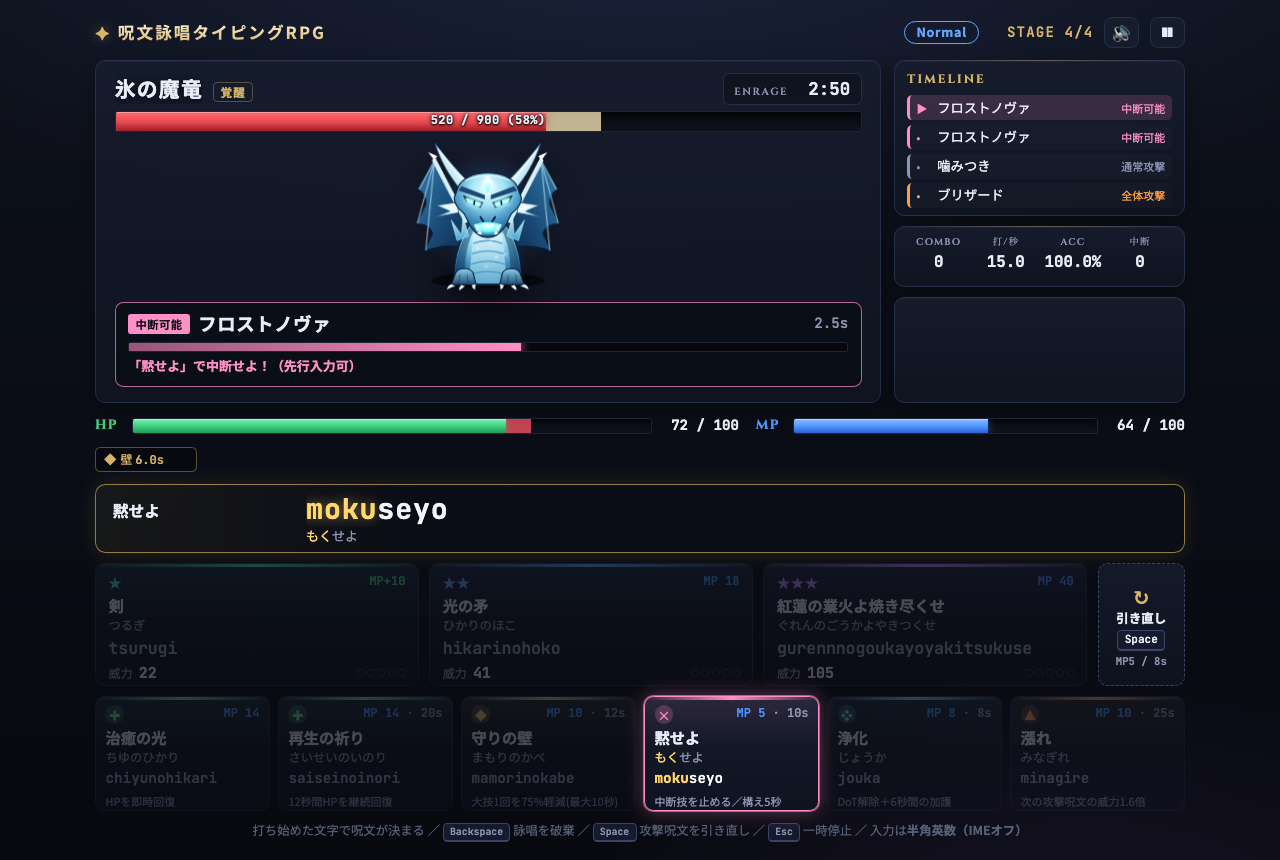
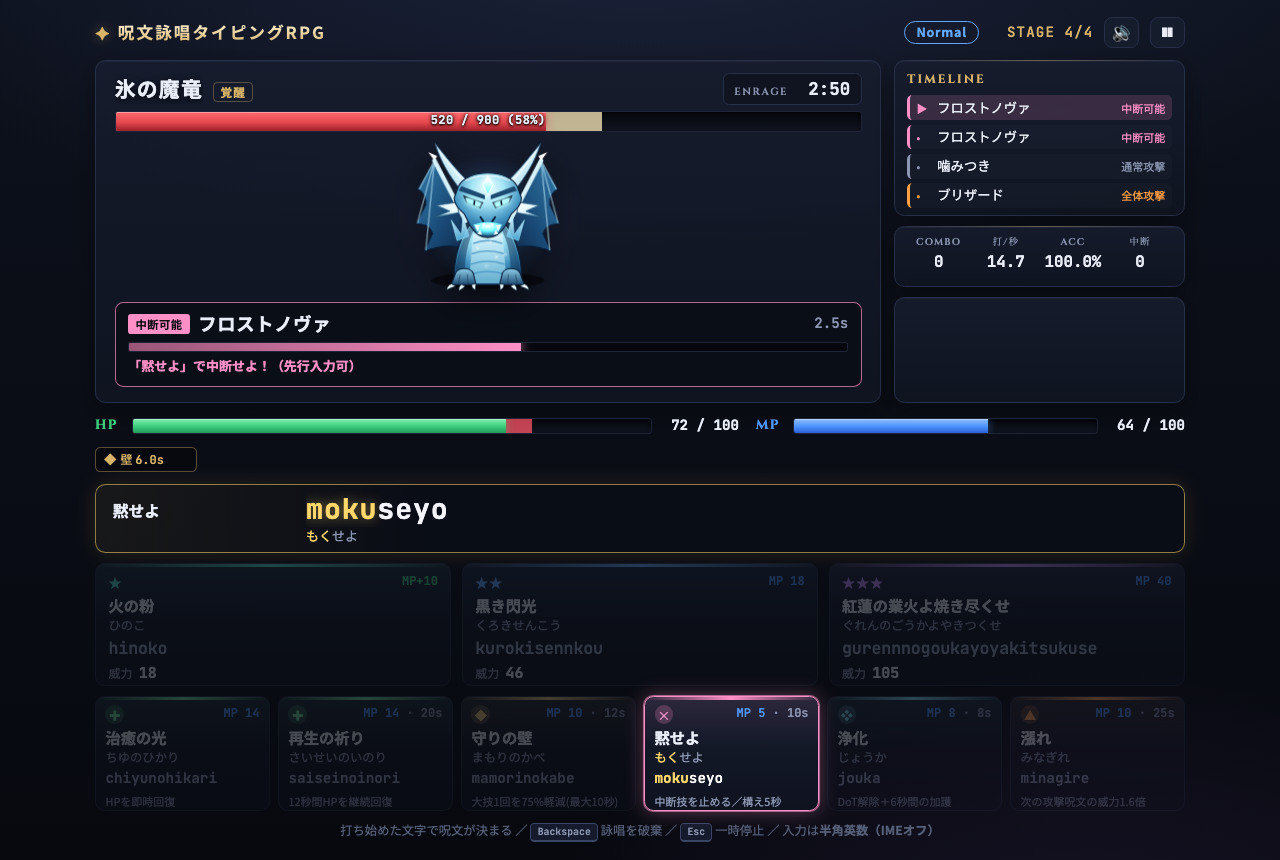
引き直しを削除
属性の廃止で「手札に撃てる/効く呪文がない」状況がなくなり (★枠は MP 0 で撃てる)、
bot も 1 度も使わなくなったため、引き直し (Space / ↻) を削除して攻撃カードを横幅いっぱいに表示する。
未使用になった風化・引き直しの効果音も削除。

diff --git a/js/game.js b/js/game.js
@@ -5,7 +5,7 @@
 (function () {
   'use strict';
 
-  const { ENEMIES, KINDS, DIFFICULTIES, DIFFICULTY_ORDER, ABILITY_TYPES, HAND } = window.GameData;
+  const { ENEMIES, KINDS, DIFFICULTIES, DIFFICULTY_ORDER, ABILITY_TYPES } = window.GameData;
   const { Battle, Sfx } = window;
   const Sprites = window.Sprites || { svg: () => '' };
 
@@ -71,7 +71,6 @@
     combo: $('stat-combo'), speed: $('stat-speed'), acc: $('stat-acc'), int: $('stat-int'),
     log: $('log'), hand: $('hand'), attackRow: $('attack-row'), skillRow: $('skill-row'),
     overlay: $('overlay'), overlayContent: $('overlay-content'), imeWarning: $('ime-warning'),
-    redrawTile: $('redraw-tile'), redrawCost: $('redraw-cost'), redrawCd: $('redraw-cd'),
     chant: $('chant'), chantName: $('chant-name'), chantCandidates: $('chant-candidates'),
     chantTyped: $('chant-typed'), chantRest: $('chant-rest'), chantKana: $('chant-kana'),
     banner: $('banner'), bannerStage: $('banner-stage'), bannerName: $('banner-name'), bannerCall: $('banner-call'),
@@ -252,25 +251,6 @@
     dom.chantKana.innerHTML = `<span class="done">${escapeHtml(m.text.slice(0, m.pos))}</span>${escapeHtml(m.text.slice(m.pos))}`;
   }
 
-  function renderRedraw() {
-    const cd = state.cooldowns.redraw || 0;
-    const ready = engine.canRedraw();
-    dom.redrawTile.classList.toggle('disabled', !ready);
-    dom.redrawCost.textContent = `MP${HAND.redraw.mp} / ${HAND.redraw.cd}s`;
-    dom.redrawCd.textContent = cd > 0 ? fmtSec(cd) : !ready && state.phase === 'battle' ? 'MP不足' : '';
-    dom.redrawTile.querySelector('.cd-veil').style.setProperty('--cd', cd > 0 ? cd / (HAND.redraw.cd * 1000) : 0);
-  }
-
-  function tryRedraw() {
-    if (engine.redraw()) {
-      flushEvents();
-      renderFrame();
-    } else {
-      retrigger(dom.redrawTile, 'deny');
-      sfx('miss');
-    }
-  }
-
   /** リキャスト・MP不足の表示 (毎フレーム) */
   function renderCooldowns() {
     const list = engine.cards();
@@ -283,7 +263,6 @@
       n.veil.style.setProperty('--cd', cd > 0 ? cd / (spell.cd * 1000) : 0);
       n.cdText.textContent = cd > 0 ? fmtSec(cd) : !enabled ? 'MP不足' : '';
     });
-    renderRedraw();
   }
 
   // ---------- 描画 ----------
@@ -591,7 +570,6 @@
         </div>
         <ul class="rules">
           <li>上段の攻撃呪文は<strong>使った枠だけ</strong>入れ替わります。<strong>★で MP を貯めて★★★を撃つ</strong>のが基本の流れ。</li>
-          <li>撃てるカードがないときは <kbd>Space</kbd> で攻撃 3 枚を<strong>引き直し</strong>（MP 5・8 秒に 1 回）。</li>
           <li>下段の支援呪文 6 枚は常に並びます。MP とリキャスト（再使用までの時間）に注意。</li>
         </ul>`,
     },
@@ -614,7 +592,7 @@
         <table class="howto-table keys">
           <tr><td>ローマ字キー</td><td>詠唱</td></tr>
           <tr><td><kbd>Backspace</kbd></td><td>詠唱を破棄</td></tr>
-          <tr><td><kbd>Space</kbd></td><td>攻撃呪文を引き直す（戦闘中）／決定（メニュー）</td></tr>
+          <tr><td><kbd>Space</kbd></td><td>決定（メニュー）</td></tr>
           <tr><td><kbd>Esc</kbd></td><td>一時停止メニュー</td></tr>
         </table>
         <ul class="rules">
@@ -1006,11 +984,6 @@
           handDirty = true;
           break;
         }
-        case 'redraw':
-          cardNodes.slice(0, 3).forEach((n) => retrigger(n.node, 'renew', 700));
-          if (typeof Sfx.redraw === 'function') Sfx.redraw(); else sfx('key');
-          handDirty = true;
-          break;
         case 'enemyCast':
           if (ev.ability.type !== 'auto') sfx('warn');
           if (ev.ability.type !== 'auto') retrigger(dom.bossCast, 'appear', 500);
@@ -1126,7 +1099,6 @@
     }
     if (key === ' ') {
       e.preventDefault();
-      if (!e.repeat) tryRedraw();
     } else if (key === 'Backspace') {
       e.preventDefault();
       engine.cancelCast();
@@ -1147,7 +1119,7 @@
     const k = key.length === 1 ? key.toLowerCase() : key;
     const confirm = key === ' ' || key === 'Enter';
     if (confirm || key.startsWith('Arrow')) e.preventDefault();
-    // 戦闘中の Space (引き直し) を押し続けた勢いで結果画面を飛ばさないよう少し待つ
+    // 戦闘中のキーを押し続けた勢いで結果画面を飛ばさないよう少し待つ
     if (e.repeat && !key.startsWith('Arrow')) return;
     if (performance.now() - ui.overlayAt < 450 && ['stageClear', 'allClear', 'gameover'].includes(ui.screen)) return;
 
@@ -1233,11 +1205,6 @@
     }
   });
   window.addEventListener('resize', fitToScreen);
-
-  dom.redrawTile.addEventListener('click', (e) => {
-    e.currentTarget.blur();
-    if (ui.screen === 'battle') tryRedraw();
-  });
 
   dom.sound.addEventListener('click', (e) => {
     e.currentTarget.blur();

diff --git a/style.css b/style.css
@@ -400,7 +400,6 @@ kbd {
 
 /* ---------- 手札 ---------- */
 .hand { margin-top: 10px; }
-.attack-line { display: grid; grid-template-columns: minmax(0, 1fr) 84px; gap: 10px; }
 .attack-row { display: grid; grid-template-columns: repeat(3, minmax(0, 1fr)); gap: 10px; }
 .hotbar { display: grid; grid-template-columns: repeat(6, minmax(0, 1fr)); gap: 8px; margin-top: 10px; }
 
@@ -477,7 +476,7 @@ kbd {
   background: conic-gradient(rgba(4, 6, 12, 0.78) calc(var(--cd) * 360deg), rgba(4, 6, 12, 0.5) 0);
   visibility: hidden;
 }
-.card.disabled .cd-veil, .redraw-tile.disabled .cd-veil { visibility: visible; }
+.card.disabled .cd-veil { visibility: visible; }
 .card.disabled { filter: grayscale(0.85) brightness(0.85); }
 .cd-text { font-weight: 700; font-size: 1.05rem; text-shadow: 0 1px 3px #000; }
 
@@ -488,20 +487,6 @@ kbd {
   100% { opacity: 1; filter: none; }
 }
 
-/* 引き直し */
-.redraw-tile {
-  position: relative; height: 118px;
-  display: flex; flex-direction: column; align-items: center; justify-content: center; gap: 3px;
-  border-radius: 9px; border: 1px dashed var(--line-strong);
-  background: linear-gradient(180deg, #141a2a, #0e121e);
-  color: var(--text); font-family: inherit; cursor: pointer; overflow: hidden;
-  outline: 2px solid transparent;
-}
-.redraw-icon { font-size: 1.5rem; line-height: 1; color: var(--gold); }
-.redraw-label { font-size: 0.75rem; font-weight: 700; }
-.redraw-cost { font-size: 0.64rem; color: var(--text-dim); }
-.redraw-tile.disabled { filter: grayscale(0.9) brightness(0.75); cursor: default; }
-.redraw-tile.deny { animation: deny 0.35s; }
 @keyframes deny { 0% { outline-color: var(--bad); } 100% { outline-color: transparent; } }
 
 .help { color: var(--text-faint); font-size: 0.74rem; text-align: center; margin: 10px 0 0; }

diff --git a/index.html b/index.html
@@ -123,20 +123,11 @@
     </section>
 
     <section id="hand" class="hand">
-      <div class="attack-line">
-        <div id="attack-row" class="attack-row"></div>
-        <button id="redraw-tile" class="redraw-tile" type="button" title="攻撃呪文3枠を引き直す">
-          <span class="redraw-icon">↻</span>
-          <span class="redraw-label">引き直し</span>
-          <kbd>Space</kbd>
-          <span id="redraw-cost" class="redraw-cost num"></span>
-          <span class="cd-veil"><span id="redraw-cd" class="cd-text num"></span></span>
-        </button>
-      </div>
+      <div id="attack-row" class="attack-row"></div>
       <div id="skill-row" class="hotbar"></div>
     </section>
 
-    <p class="help">打ち始めた文字で呪文が決まる ／ <kbd>Backspace</kbd> 詠唱を破棄 ／ <kbd>Space</kbd> 攻撃呪文を引き直し ／ <kbd>Esc</kbd> 一時停止 ／ 入力は<strong>半角英数（IMEオフ）</strong></p>
+    <p class="help">打ち始めた文字で呪文が決まる ／ <kbd>Backspace</kbd> 詠唱を破棄 ／ <kbd>Esc</kbd> 一時停止 ／ 入力は<strong>半角英数（IMEオフ）</strong></p>
 
     <!-- ステージ開始の演出 -->
     <div id="banner" class="banner" aria-live="polite">

diff --git a/js/engine.js b/js/engine.js
@@ -126,24 +126,6 @@
       for (const slot of [0, 1, 2]) state.attackHand.push(drawAttack(slot, state.attackHand));
     }
 
-    function canRedraw() {
-      return state.phase === 'battle' && state.player.mp >= HAND.redraw.mp && !(state.cooldowns.redraw > 0);
-    }
-
-    /** 攻撃3枠を引き直す (MP とリキャストを消費、詠唱中なら破棄) */
-    function redraw() {
-      if (!canRedraw()) return false;
-      state.player.mp -= HAND.redraw.mp;
-      state.cooldowns.redraw = HAND.redraw.cd * 1000;
-      const old = state.attackHand;
-      state.attackHand = [];
-      for (const slot of [0, 1, 2]) state.attackHand.push(drawAttack(slot, [...state.attackHand, old[slot]]));
-      resetCast();
-      log('手札を引き直した。');
-      emit('redraw');
-      return true;
-    }
-
     function resetCast() {
       const list = cards();
       state.cast = {
@@ -497,7 +479,7 @@
 
     return {
       state, cards, isEnabled, upcoming, setDifficulty, startRun, startStage, retryStage, nextStage,
-      tick, key, cancelCast, drain, diff, redraw, canRedraw, isUsefulAttack, runSummary,
+      tick, key, cancelCast, drain, diff, isUsefulAttack, runSummary,
     };
   }
 

diff --git a/js/data.js b/js/data.js
@@ -173,18 +173,15 @@
 
   /*
    * 攻撃呪文の手札 (3枠: ★ / ★★ / ★★★)
-   * 使った枠だけが入れ替わる (使わないカードは残り続ける。詰まったら引き直し)
+   * 使った枠だけが入れ替わる (使わないカードは残り続ける。★枠は MP 0 で撃てるので詰まらない)
    * usableBoost: 手札に撃てる (MPが足りる) カードが他にないとき、撃てる候補の重みを何倍にするか
    * sameHeadWeight: 手札の他の呪文と頭のかなが同じ候補の重み (打ち始めで候補が絞れるように)
    * lowMpTier3: MP不足時に★★★枠へ★★★が来る確率 (残りは★★)
-   * redraw: 攻撃3枠を引き直すコスト / keys: 操作キー (左手小指を避け、入力と衝突しないキー)
    */
   const HAND = {
     usableBoost: 4,
     sameHeadWeight: 0.15,
     lowMpTier3: 0.5,
-    redraw: { mp: 5, cd: 8 },
-    keys: { redraw: 'Space', cancel: 'Backspace' },
   };
 
   return { DIFFICULTIES, DIFFICULTY_ORDER, KINDS, ATTACKS, SKILLS, SPELLS: [...ATTACKS, ...SKILLS],

diff --git a/js/sfx.js b/js/sfx.js
@@ -725,20 +725,6 @@
       if (!ready()) return;
       arp([784, 1175], 0.06, { type: 'triangle', dur: 0.06, d: 0.08, s: 0.4, r: 0.15, g: 0.06, wet: 0.3 });
     },
-    /** 札の引き直し: 紙をめくる 3 連 */
-    redraw() {
-      if (!ready()) return;
-      const t = now();
-      for (let i = 0; i < 3; i++) noise(N.S, { t: t + i * 0.05, ft: 'bandpass', f: 2200 + i * 600, fEnd: 5000, q: 1.2, dec: 0.07, a: 0.01, g: 0.1 });
-    },
-    /** 札の風化 (崩れる): 細かなパチパチ + 沈む音 */
-    weather() {
-      if (!ready()) return;
-      const t = now();
-      for (let i = 0; i < 6; i++) noise(N.S, { t: t + rand() * 0.25, ft: 'bandpass', f: 1500 + rand() * 2500, q: 2, dec: 0.03, g: 0.08 });
-      note(N.S, { t, f: 420, slide: 140, type: 'triangle', dur: 0.3, d: 0.1, s: 0.5, r: 0.1, g: 0.03, lp: 1200 });
-      noise(N.S, { t, ft: 'lowpass', f: 1200, fEnd: 200, dec: 0.35, g: 0.04, a: 0.03 });
-    },
     /** 呪文の詠唱完了。tier 1〜3 で段階的に豪華になる */
     complete(tier = 1) {
       if (!ready()) return;

diff --git a/README.md b/README.md
@@ -25,13 +25,12 @@ FF14 のボス戦のように、敵の詠唱バーを見て「今何を唱える
 | --- | --- |
 | 詠唱 | ローマ字入力（`shi`/`si`、`chi`/`ti`、`nn`/`n'`、`kka`/`xtuka` などの揺れに対応） |
 | 詠唱を破棄 | `Backspace` |
-| 攻撃呪文を引き直す | `Space`（MP 5・リキャスト 8 秒） |
 | 一時停止メニュー | `Esc`（再開・やり直し・遊び方・設定・タイトルへ）。ウィンドウを離れても自動で一時停止 |
 | 決定・次へ（戦闘外） | `Space` / `Enter` |
 
 設定では全体・BGM・効果音の音量、ミュート、画面の揺れ、演出を控えめにする（OS の「視差効果を減らす」が既定値）を変えられます。画面は 1080px 幅の固定レイアウトをウィンドウに合わせて拡大縮小します。
 
-操作キーは左手小指を避けて、親指（Space）と右手（Backspace）に寄せています。
+戦闘中の操作は呪文の入力・`Backspace`（詠唱破棄）・`Esc`（一時停止）だけです。
 
 ## 呪文の役割
 
@@ -50,11 +49,10 @@ FF14 のボス戦のように、敵の詠唱バーを見て「今何を唱える
 | 漲れ（みなぎれ） | 次の攻撃呪文の威力 1.6 倍 | 10 | 25s |
 
 - **攻撃手札（★ / ★★ / ★★★ の3枠）**:
-  - **入れ替わり**: 使った枠だけが新しい呪文に入れ替わる。使わないカードはそのまま残るので、詰まったら引き直す
+  - **入れ替わり**: 使った枠だけが新しい呪文に入れ替わる。使わないカードはそのまま残る。★枠は MP 0 で撃てるので、手札が詰まることはない
   - **差別化は長さだけ**: 威力と MP は呪文の長さ（打鍵数）で決まる。属性はない
   - **ドローの偏り**: 手札に MP が足りて撃てる攻撃が他にないときは、撃てるカードが出やすくなる（確定ではない）。手札の他の呪文と頭のかなが同じものは出にくい（打ち始めで候補が絞れるように）
   - **MP 不足時**: ★★★枠は MP が 40 未満のとき半分の確率で★★が来る。MP 不足やリキャスト中のカードはグレーアウトする
-  - **引き直し**: `Space`（または右端の ↻）で攻撃3枠をまとめて引き直せる。詠唱中の呪文は破棄される
 - **MP 循環**: ★で MP を貯めて★★★を撃つ。★★★だけを連打するとすぐ MP が尽きる
 - **被弾しても詠唱には影響しない**: 入力中の文字列・進捗・ハイライト・威力はそのまま。長い呪文のリスクは MP・時間切れ・防御が着弾に間に合うかで決まる
 - **ミスタイプ**: 詠唱中のミス 1 回につき威力 -10%（下限 40%）。ノーミス詠唱を続けるとコンボで威力アップ（最大 +50%）
@@ -159,7 +157,7 @@ node tools/finger-load.mjs                  # 指別の打鍵負荷
 bot は次の 4 種類です。
 
 - `greedy`: ★★★攻撃だけを打ち続ける（5 打/秒）
-- `proper`: ギミックに対応する。壁・黙せよ・浄化は先行入力し、次の大技に耐えられる HP を保つ。撃てる攻撃がなければ引き直す（4.5 打/秒、ミス 3%）
+- `proper`: ギミックに対応する。壁・黙せよ・浄化は先行入力し、次の大技に耐えられる HP を保つ（4.5 打/秒、ミス 3%）
 - `sloppy`: 中断・浄化を使わず回復も遅い（3.5 打/秒、ミス 8%）
 - `expert`: proper と同じ判断で速い（6.5 打/秒、ミス 2%）
 
